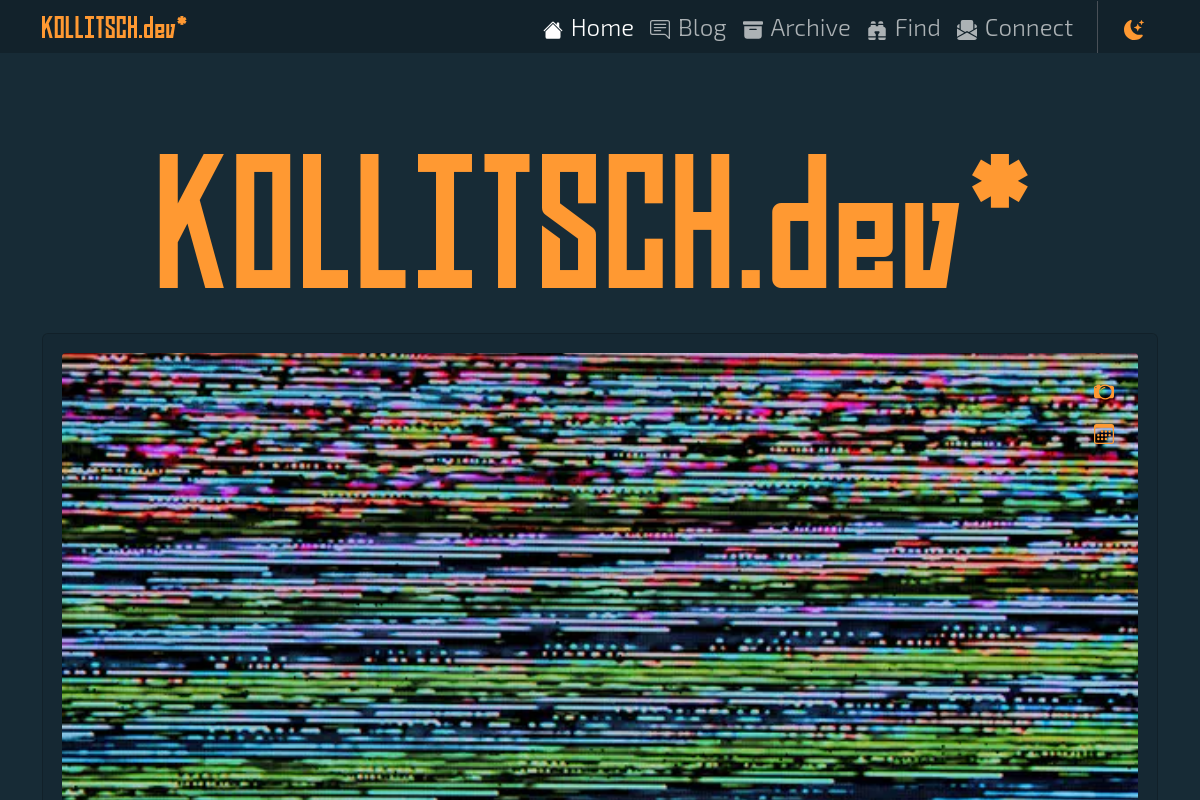
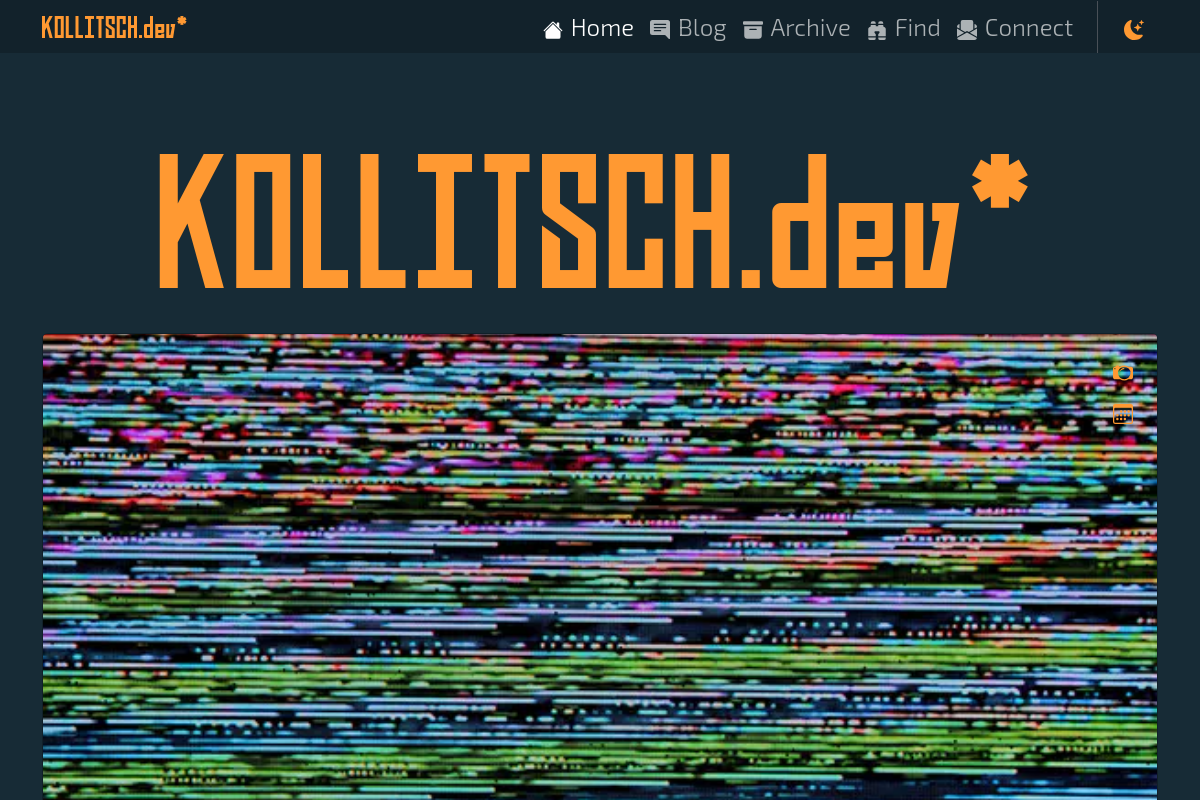
chore(release): v2024.1.54

diff --git a/CHANGELOG.md b/CHANGELOG.md
@@ -1,4 +1,25 @@
 Changelog
+## [2024.1.54](https://github.com/davidsneighbour/kollitsch.dev/compare/v2024.1.53...v2024.1.54) (2024-05-11)
+
+
+### Theme
+
+* **feat:** move js to ts ([cfb7617](https://github.com/davidsneighbour/kollitsch.dev/commit/cfb761744330c0c8c23baf5b32c645790cb698be))
+* **feat:** show 50 items on archive page (instead of 25) ([3944e02](https://github.com/davidsneighbour/kollitsch.dev/commit/3944e02edc983fbe80d362bb9d226820c68a1115))
+* **fix:** keyboard navigation for post lists ([49139b9](https://github.com/davidsneighbour/kollitsch.dev/commit/49139b9ea46668e6a00fc99062acd91634139eab)), closes [#925](https://github.com/davidsneighbour/kollitsch.dev/issues/925)
+* **fix:** no padding around banner images ([2f966f6](https://github.com/davidsneighbour/kollitsch.dev/commit/2f966f6768eee9817dc7f3c999ff4694b73b460a)), closes [#927](https://github.com/davidsneighbour/kollitsch.dev/issues/927)
+* **fix:** proper icon for blog navbar link ([4f5a9dd](https://github.com/davidsneighbour/kollitsch.dev/commit/4f5a9ddff9d424a38aca0581e815dfa6856e988b)), closes [#926](https://github.com/davidsneighbour/kollitsch.dev/issues/926)
+
+
+### Content
+
+* **fix:** remove todo tag from code sample ([f4edd01](https://github.com/davidsneighbour/kollitsch.dev/commit/f4edd01cbca72346e711b5d159f8bda03ab7aa31))
+
+
+### Chore
+
+* **git:** update bin submodule ([d7e0838](https://github.com/davidsneighbour/kollitsch.dev/commit/d7e083833bee0951d34d8ccfdb3297408926853f))
+
 ## [2024.1.53](https://github.com/davidsneighbour/kollitsch.dev/compare/v2024.1.52...v2024.1.53) (2024-05-11)
 
 
